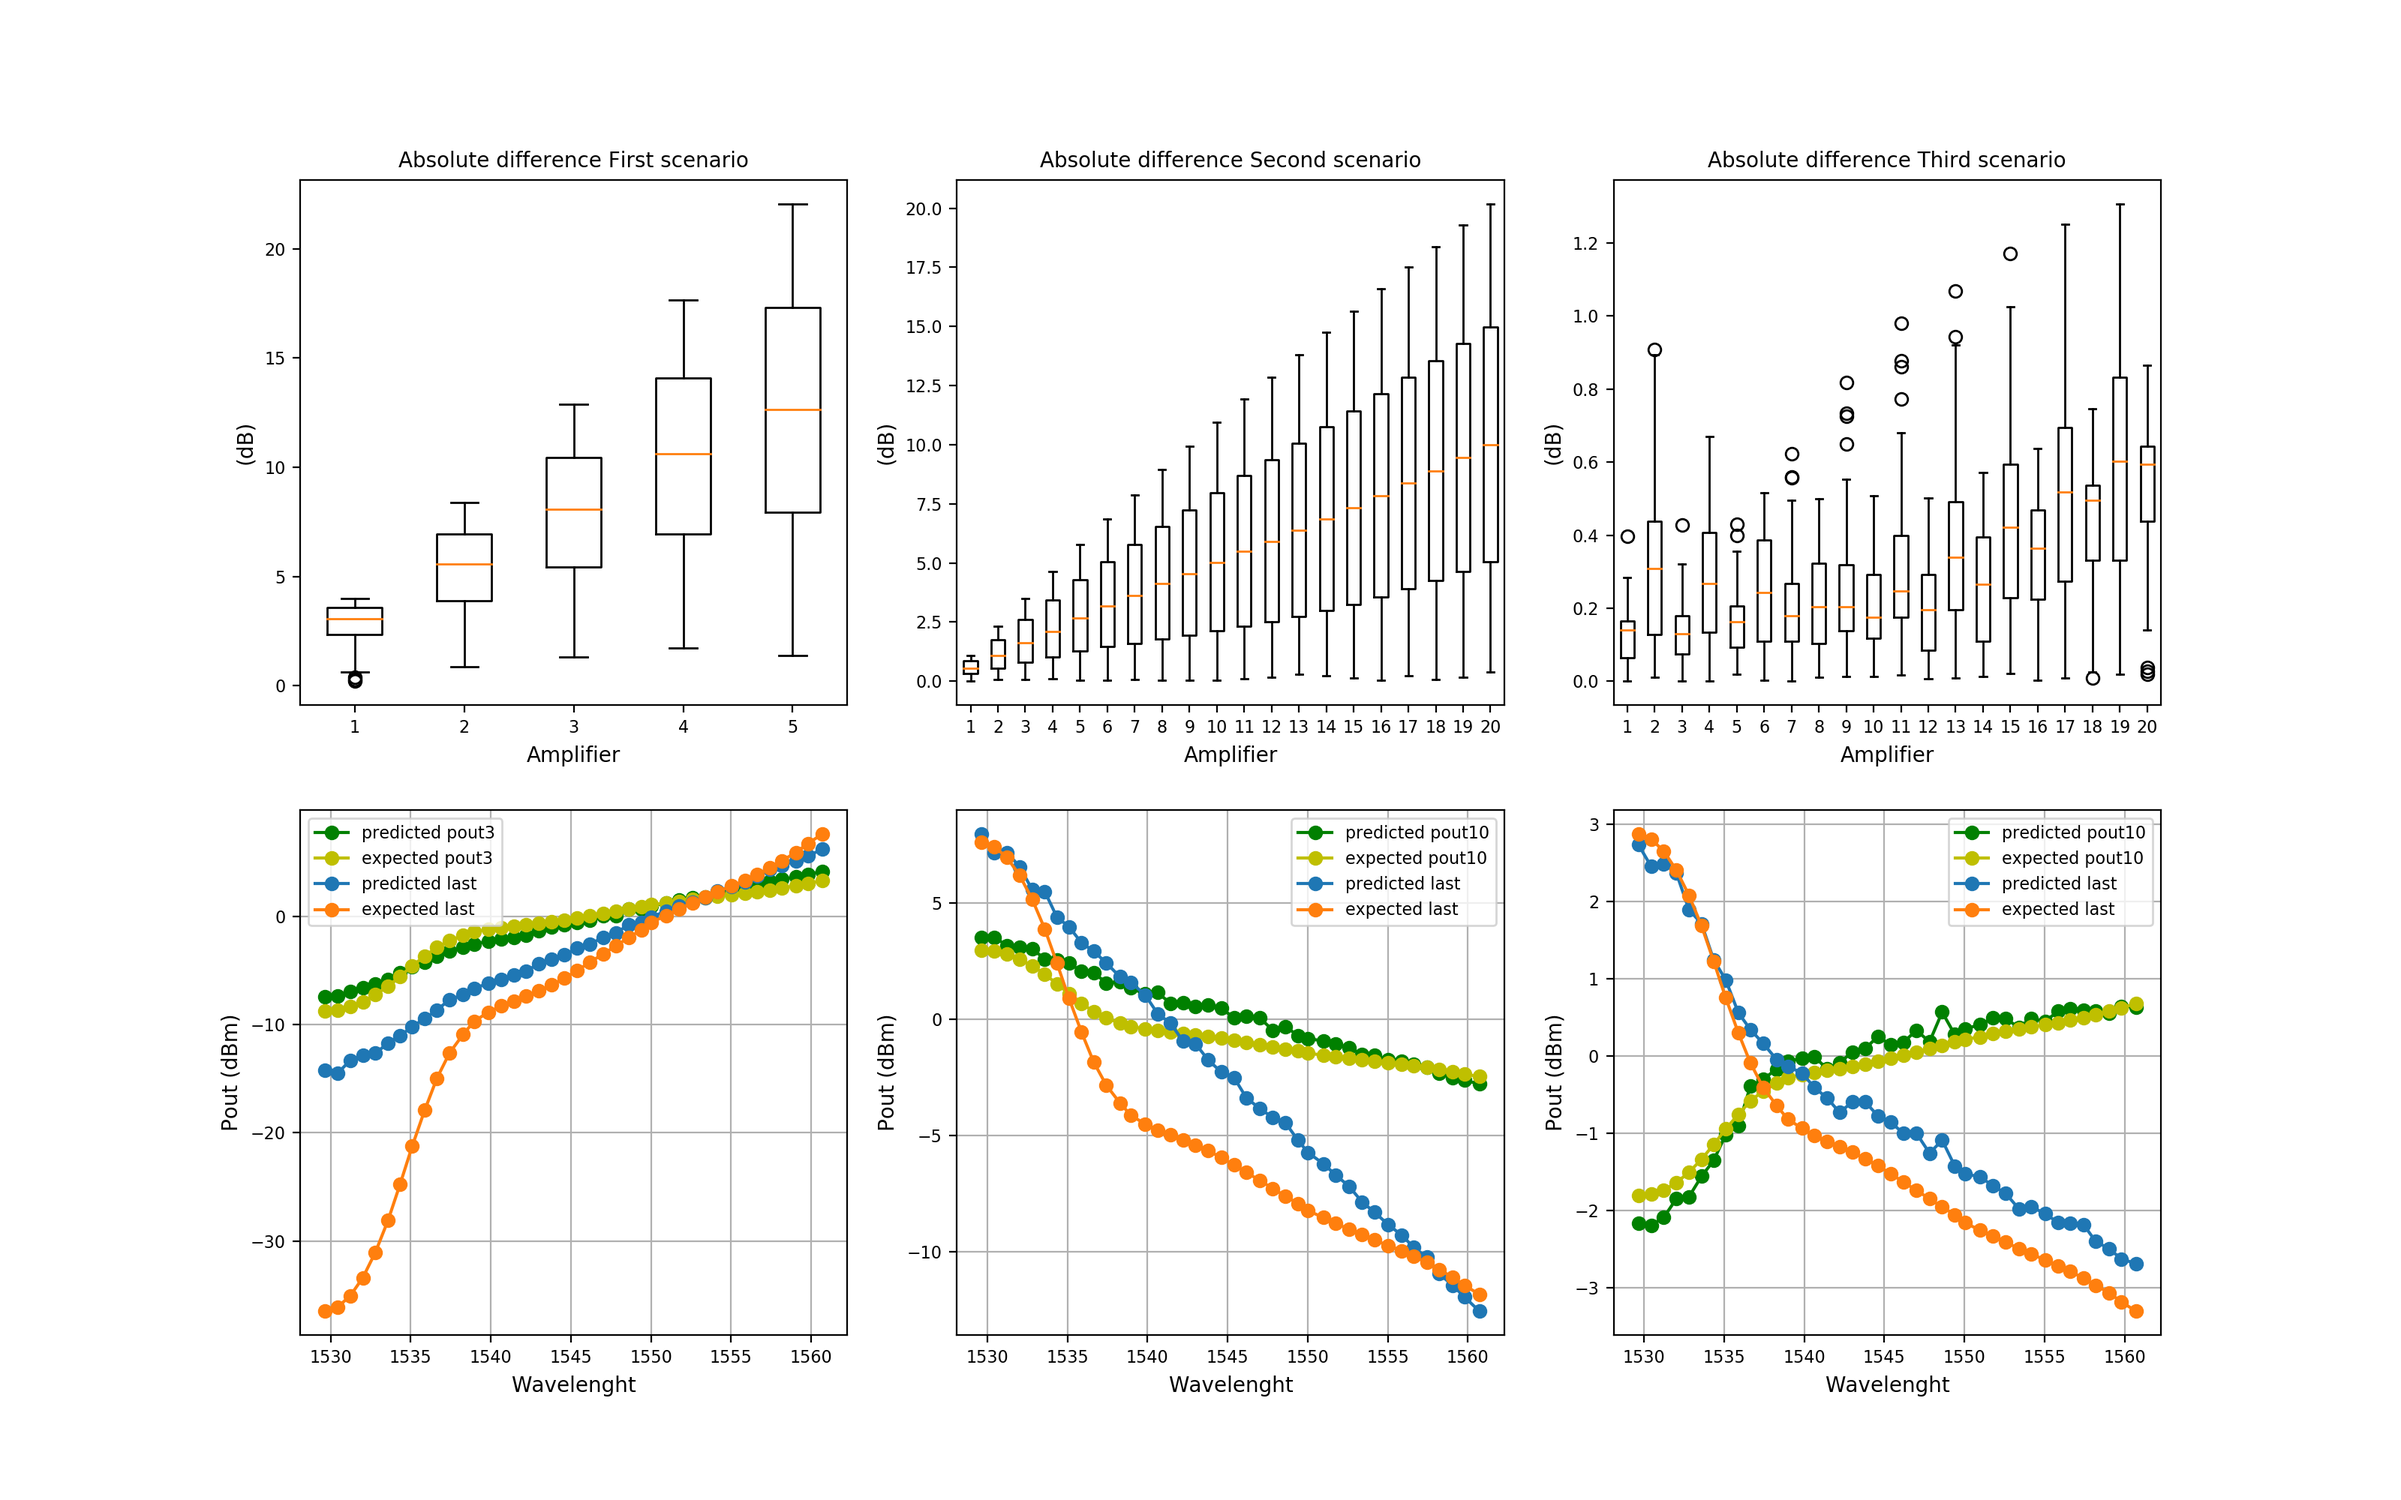
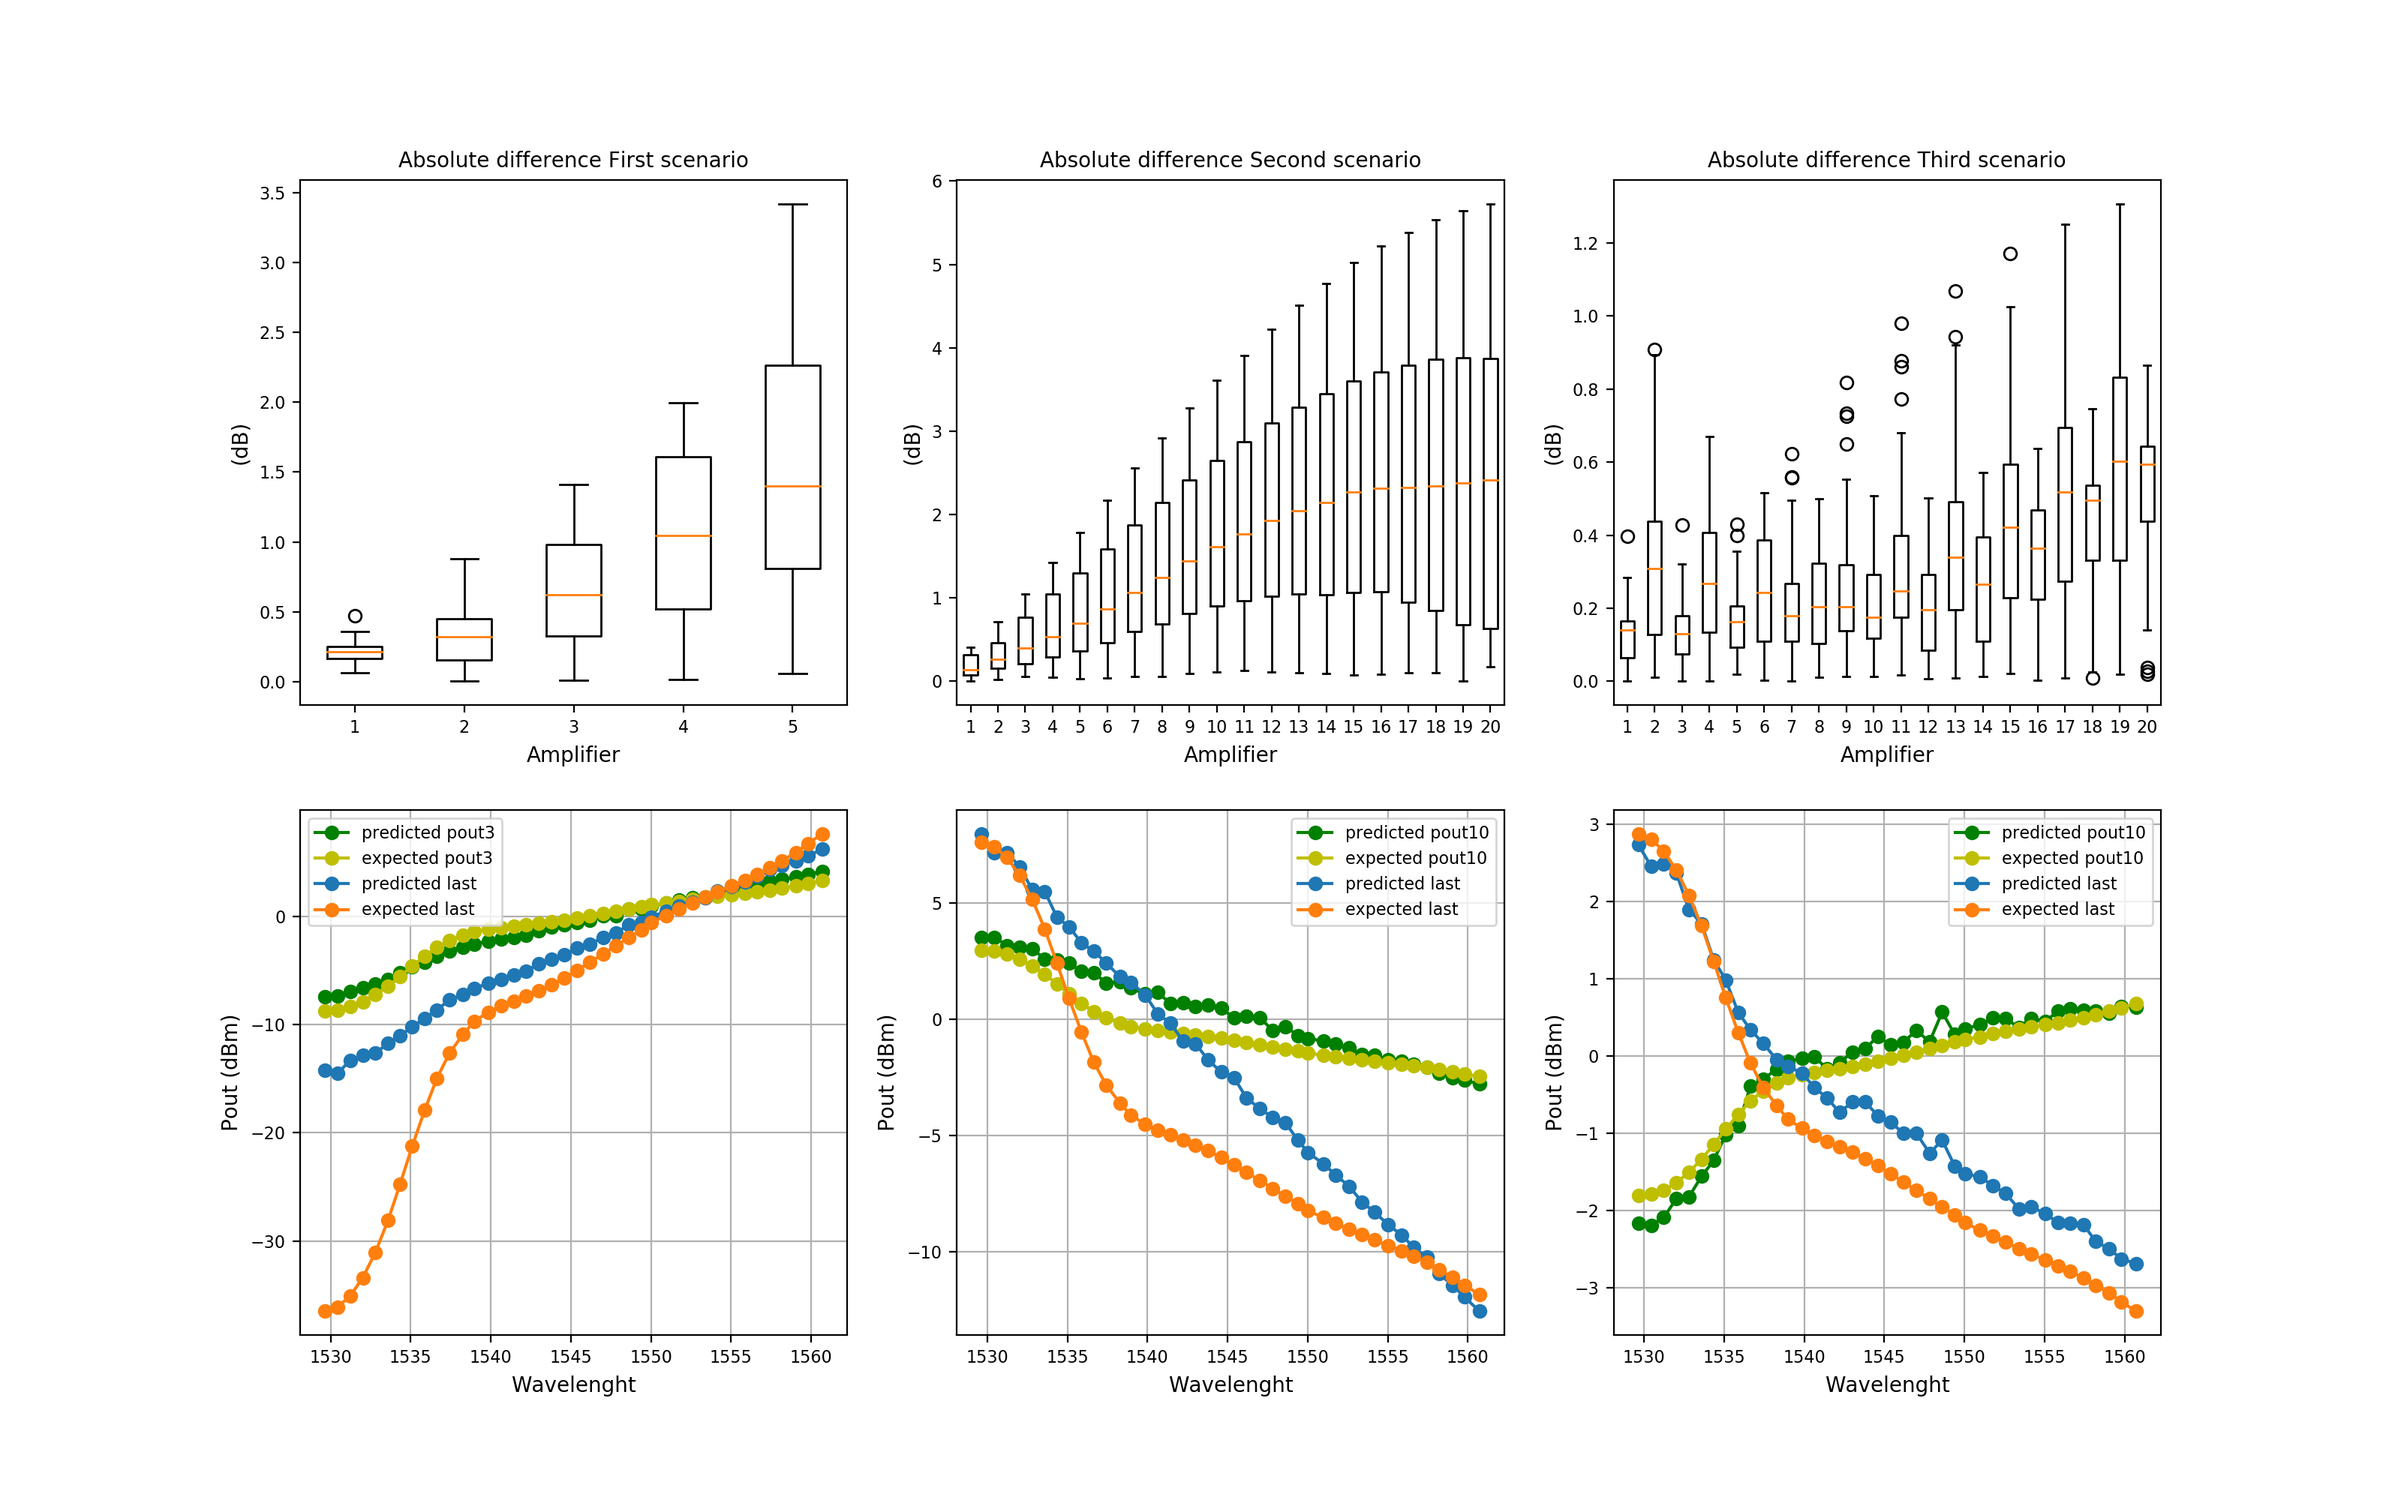
Corrigindo erro de conta 40NNcascata

diff --git a/adaptacao/Second method/Normalization per feature/cascade40NN.py b/adaptacao/Second method/Normalization per feature/cascade40NN.py
@@ -135,7 +135,8 @@ for i in range(2, int(len(columns_1)/2)+1):
 
 	diff_current = []
 	for j in range(0, y_out.shape[0]):
-		diff_current.append(abs(float(y_out[j]) - dataframe_1[columns_1[i]][k]))
+		
+		diff_current.append(abs(float(y_out[j]) - dataframe_1[columns_1[i]][j]))
 	diff_scenario1.append(diff_current)
 	
 	signal_current = []
@@ -211,7 +212,7 @@ for i in range(2, len(columns_2)):
 	
 	diff_current = []
 	for j in range(0, y_out.shape[0]):
-		diff_current.append(abs(float(y_out[j]) - dataframe_2[columns_2[i]][k]))
+		diff_current.append(abs(float(y_out[j]) - dataframe_2[columns_2[i]][j]))
 	diff_scenario2.append(diff_current)
 	if i == len(columns_1)/2:
 		middle_predict = y_out
